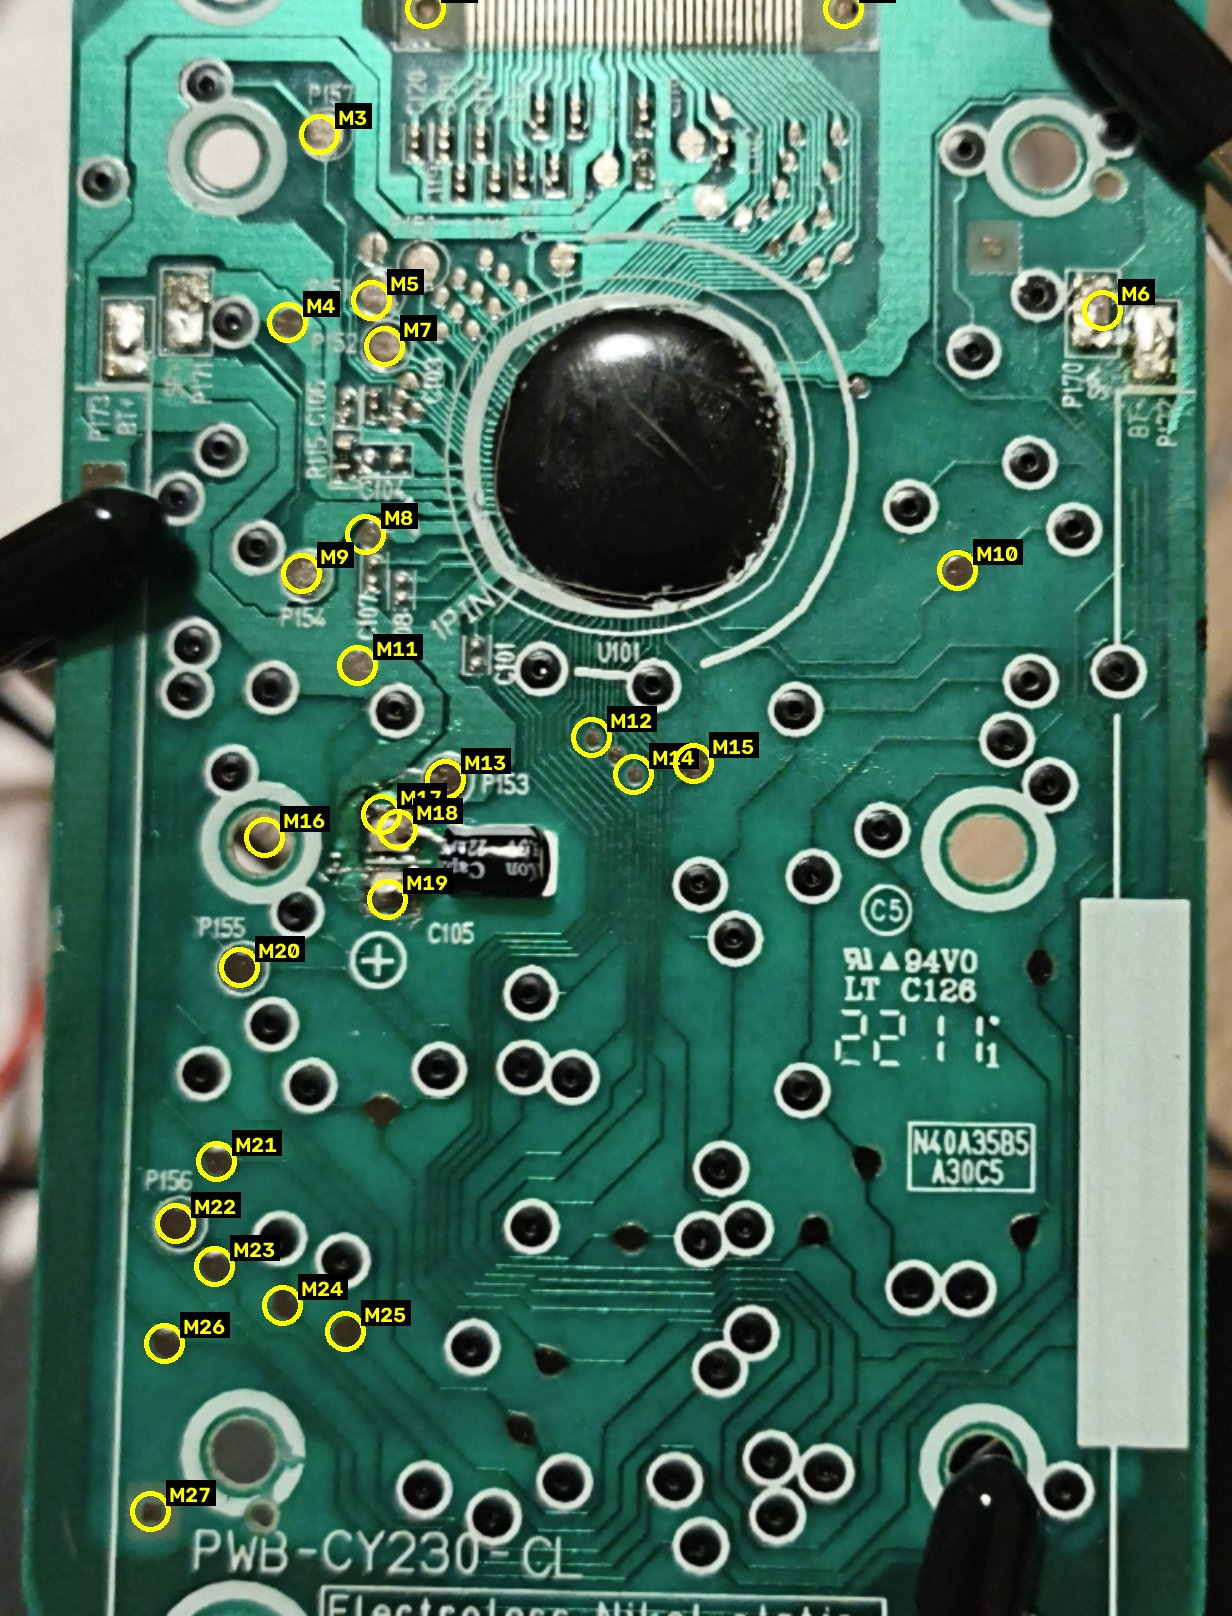
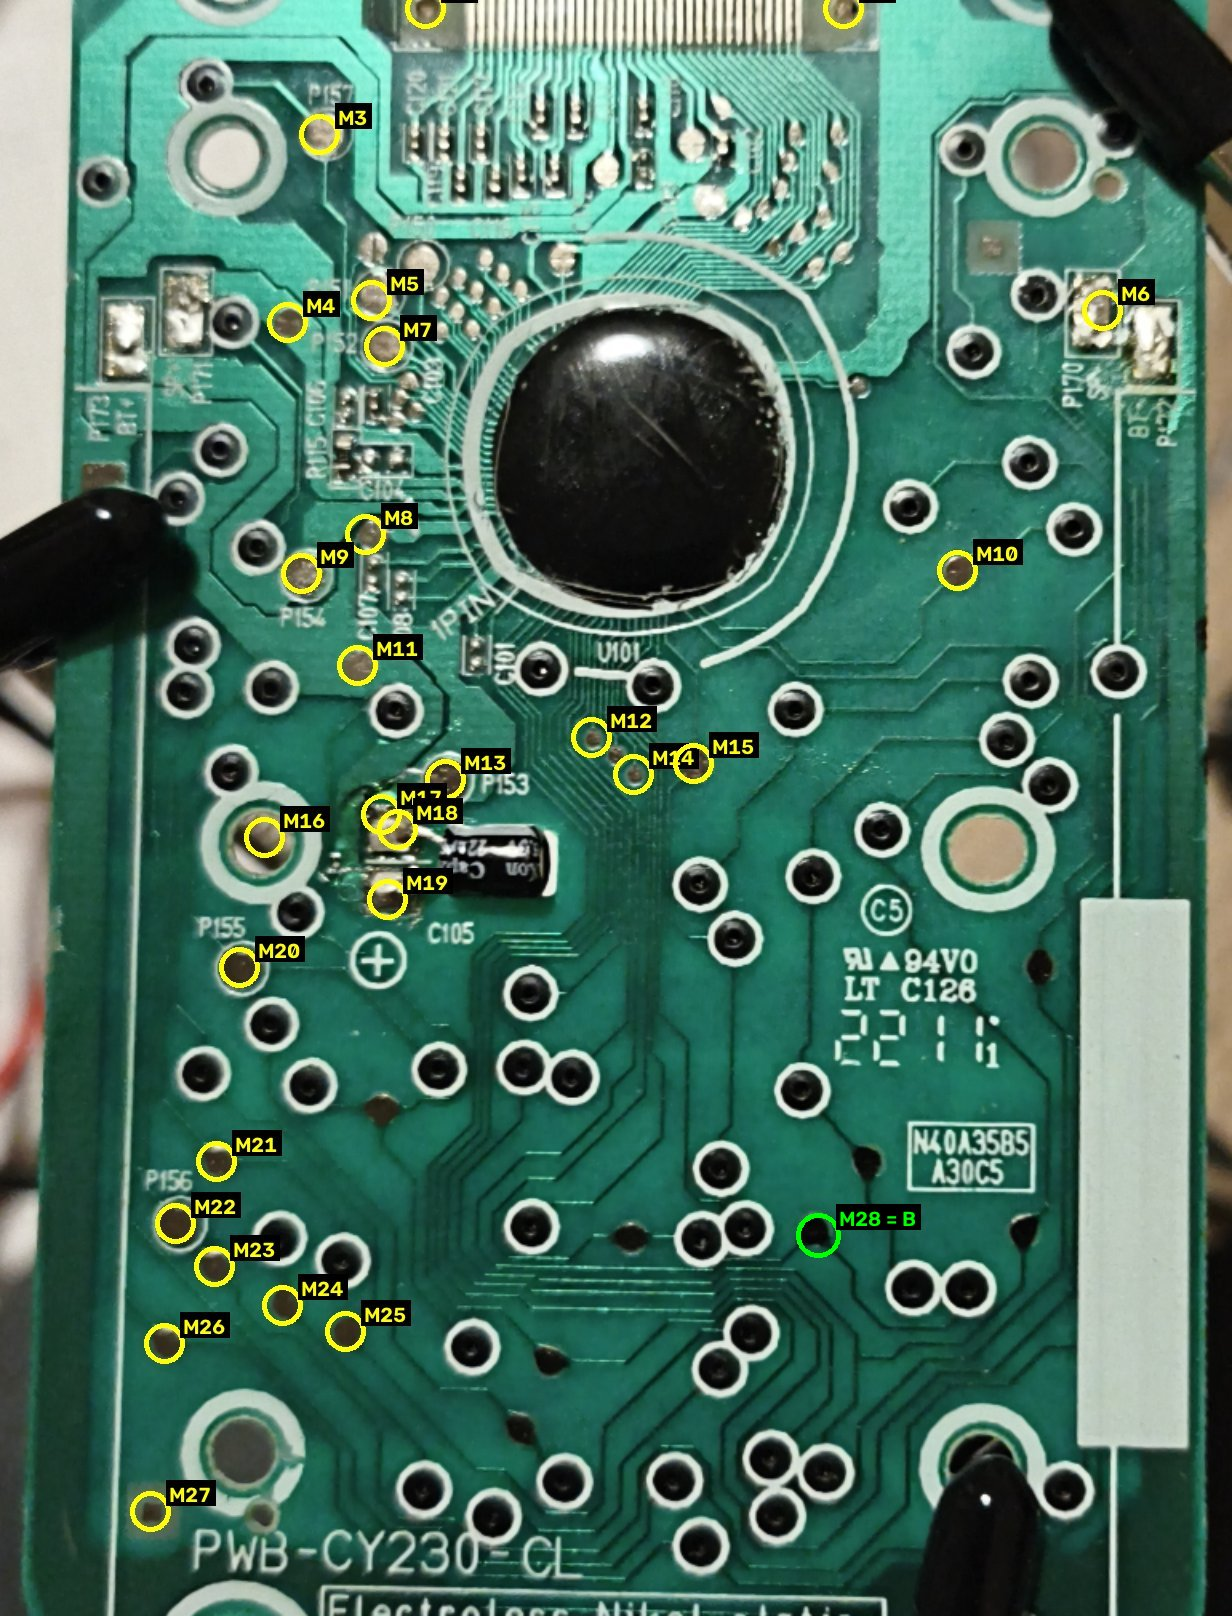
Metallpunkte: B an M28 eingetragen
Claude-Session: https://claude.ai/code/session_018xurYUYAMjcQd5yu9g7cvN

diff --git a/hardware/tastatur_messung.md b/hardware/tastatur_messung.md
@@ -200,12 +200,13 @@ Zuordnung zu den Leitungen messen (Referenztasten wie oben) und hier eintragen:
 
 | Leitung | Metallpunkt |
 |---|---|
-| C, N, H, M, L, K, A, ON, Q, X5, X4, X3, G, F, B, X6 | |
+| B | M28 (dunkler Tropfen, nachtraeglich eingezeichnet) |
+| C, N, H, M, L, K, A, ON, Q, X5, X4, X3, G, F, X6 | |
 
 ## Stand Verdrahtung (02.10.2026)
 
 | Leitung | Stand |
 |---|---|
 | X3, X4, K, A | geklebt (Leitkleber, Aushaerten im Ofen ~140 C ausstehend) |
-| B | geloetet (Metallpunkt) |
+| B | geloetet an M28 (dunkler Tropfen rechts unterhalb der Mitte, `metallpunkte.jpg`) |
 | C, N, H, M, L, ON, Q, X5, G, F, X6 | offen |
